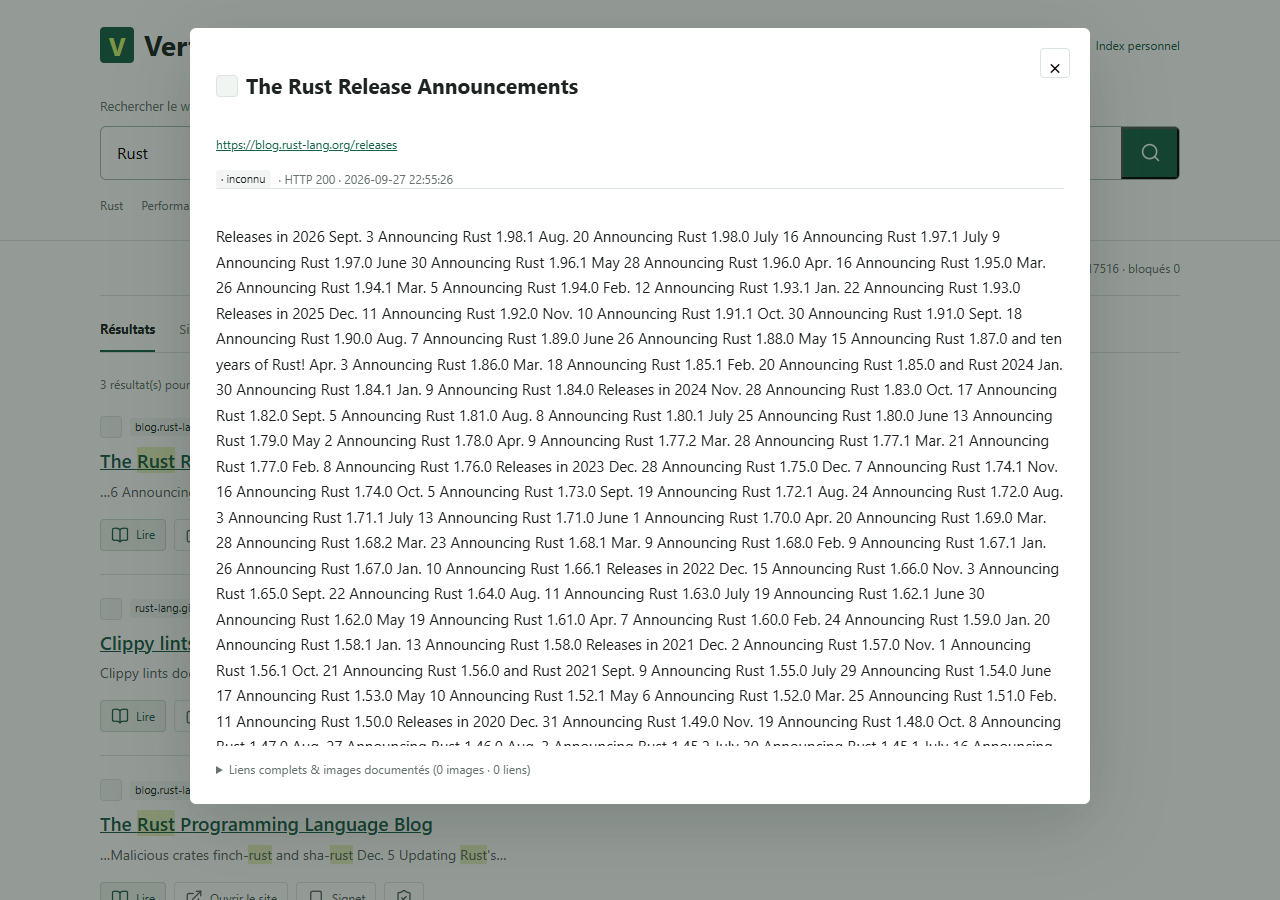
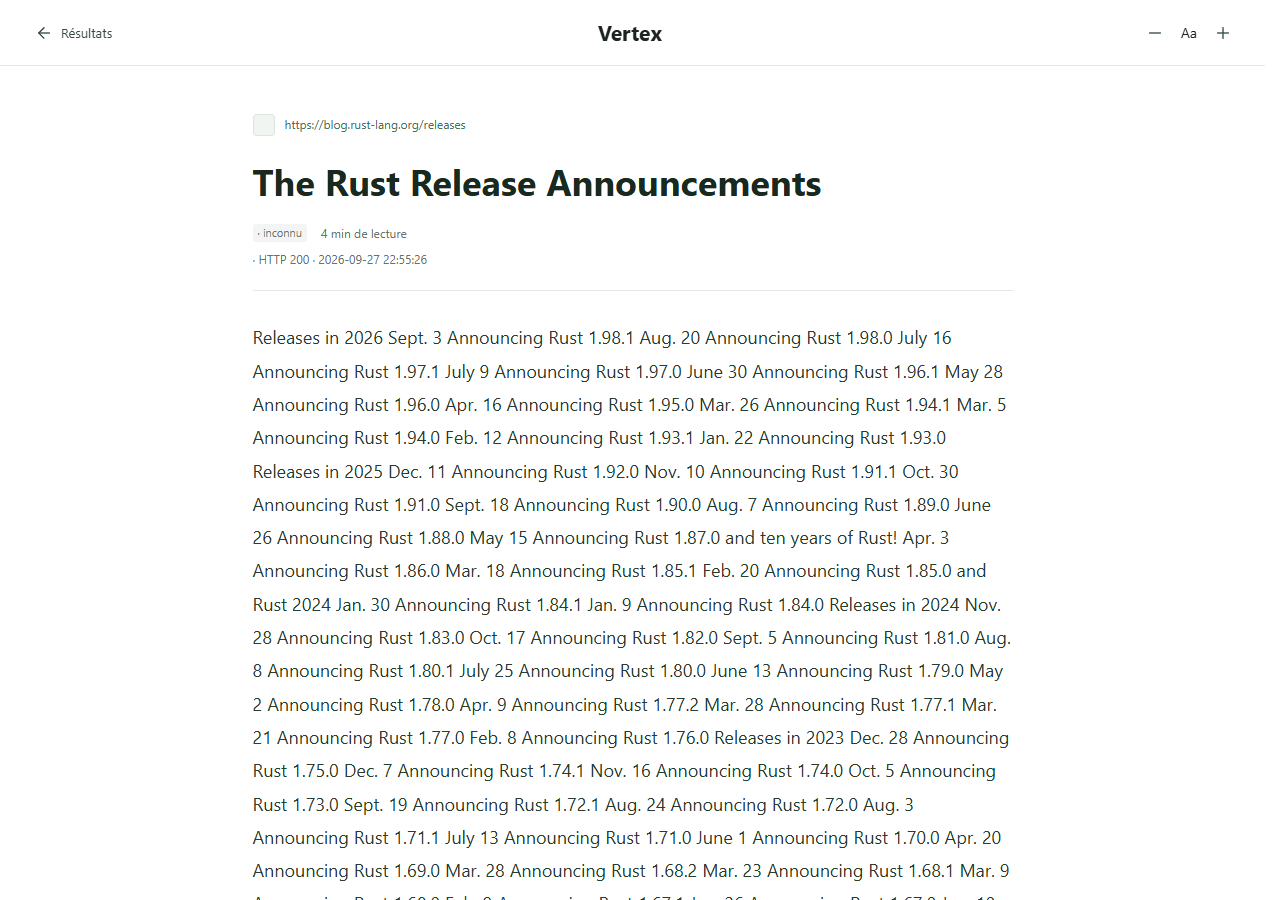
Corrige le controle continu et affine la lecture des anciennes pages

diff --git a/apps/landing/public/index.html b/apps/landing/public/index.html
@@ -30,7 +30,7 @@
     <div class="gallery-error" id="previewError" role="alert" hidden><span>L’aperçu n’a pas pu être chargé.</span><button class="icon-button" id="retryPreview" type="button" title="Réessayer le chargement" aria-label="Réessayer le chargement"><svg class="icon" aria-hidden="true"><use href="/icons.svg#refresh-cw"></use></svg></button></div>
     <span class="visually-hidden" id="galleryState" role="status" aria-live="polite"></span>
     <div class="product-window" id="product-view" role="tabpanel" aria-labelledby="tab-search"><div class="window-bar"><span class="window-brand">V <b>Vertex</b></span><span id="viewName">Recherche</span><span class="window-state">INTERFACE VERTEX</span></div><img class="preview" id="productPreview" src="/search-view.png" width="1280" height="900" alt="Capture réelle de Vertex : résultats publics Rust sélectionnés" loading="eager"></div>
-    <div class="product-caption"><p id="viewCaption">Des résultats publics sélectionnés dans l’index local de Vertex.</p><span>CAPTURES LOCALES · 19 OCTOBRE 2026</span></div>
+    <div class="product-caption"><p id="viewCaption">Des résultats publics sélectionnés dans l’index local de Vertex.</p><span>CAPTURES LOCALES · OCTOBRE 2026</span></div>
   </div>
 </section>
 <section class="flow-section" id="exploration" aria-labelledby="flow-title">
@@ -64,5 +64,5 @@
 <section class="download-section" id="download" aria-labelledby="download-title"><div class="wrap"><div class="section-top"><p class="eyebrow">04 / APPLICATION DE BUREAU</p><svg class="platform-icon" aria-hidden="true"><use href="/icons.svg#monitor"></use></svg></div><div class="download-layout"><div data-reveal><h2 id="download-title">Vertex<br>pour Windows<span>.</span></h2><p>Votre prochain point de départ.</p><span class="system">WINDOWS 10 / 11 · 64 BITS</span></div><div class="release"><div id="releaseState" class="release-state" role="status">Vérification de la version disponible…</div><a class="button download-button" id="downloadButton" hidden><svg class="icon" aria-hidden="true"><use href="/icons.svg#download"></use></svg><span id="downloadLabel">Télécharger</span></a><p class="checksum" id="checksum" hidden></p><p class="release-note">Seules les nouvelles versions validées seront proposées. Les anciens installateurs retirés ne sont pas distribués.</p><a href="/search" class="text-link">Accéder à la recherche<svg class="icon" aria-hidden="true"><use href="/icons.svg#arrow-up-right"></use></svg></a></div></div></div></section>
 </main>
 <footer><div class="wrap footer-top"><a class="footer-wordmark" href="#main">Vertex<span>.</span></a><p>Le web, retrouvé.</p></div><div class="wrap footer-bottom"><span>by ded_sec</span><div><a href="#confidentialite">Vos données</a><a href="/THIRD-PARTY-NOTICES.txt">Licences des composants</a><a href="#main" aria-label="Retour en haut" title="Retour en haut"><svg class="icon" aria-hidden="true"><use href="/icons.svg#arrow-up"></use></svg></a></div></div></footer>
-<dialog id="previewDialog" aria-label="Aperçu agrandi de Vertex"><button id="closePreview" class="icon-button" type="button" aria-label="Fermer l’aperçu" title="Fermer l’aperçu"><svg class="icon" aria-hidden="true"><use href="/icons.svg#x"></use></svg></button><img id="largePreview" src="/search-view.png" width="1280" height="900" alt="" loading="lazy"><p>Capture locale · 19 octobre 2026 · les compteurs ne sont pas en direct</p></dialog>
+<dialog id="previewDialog" aria-label="Aperçu agrandi de Vertex"><button id="closePreview" class="icon-button" type="button" aria-label="Fermer l’aperçu" title="Fermer l’aperçu"><svg class="icon" aria-hidden="true"><use href="/icons.svg#x"></use></svg></button><img id="largePreview" src="/search-view.png" width="1280" height="900" alt="" loading="lazy"><p>Capture locale · octobre 2026 · les compteurs ne sont pas en direct</p></dialog>
 </body></html>

diff --git a/apps/web/app.js b/apps/web/app.js
@@ -288,7 +288,12 @@ async function openPage(url) {
   if (html) {
     $('#vBody').innerHTML = html;
   } else {
-    $('#vBody').innerHTML = '<pre style="white-space:pre-wrap;font-family:inherit">' + esc(pg.content || '(aucun contenu enregistré)') + '</pre>';
+    $('#vBody').replaceChildren(...String(pg.content || '(aucun contenu enregistré)').split(/\r?\n\s*\r?\n/).map(text => {
+      const paragraph = document.createElement('p');
+      paragraph.textContent = text;
+      paragraph.style.whiteSpace = 'pre-line';
+      return paragraph;
+    }));
   }
 
   $$('#vBody img[data-src]').forEach(async (img, index) => {

diff --git a/apps/hub-rs/src/main.rs b/apps/hub-rs/src/main.rs
@@ -98,12 +98,19 @@ fn main() {
 
     for stream in listener.incoming() {
         let Ok(mut stream) = stream else { continue };
-        if active
-            .fetch_update(Ordering::AcqRel, Ordering::Acquire, |n| {
-                (n < 64).then_some(n + 1)
-            })
-            .is_err()
-        {
+        let accepted = loop {
+            let count = active.load(Ordering::Acquire);
+            if count >= 64 {
+                break false;
+            }
+            if active
+                .compare_exchange_weak(count, count + 1, Ordering::AcqRel, Ordering::Acquire)
+                .is_ok()
+            {
+                break true;
+            }
+        };
+        if !accepted {
             let _ = stream.set_write_timeout(Some(std::time::Duration::from_secs(1)));
             write_response(&mut stream, &Response::json_error(503, "serveur occupé"));
             continue;

diff --git a/AUDIT-2026-10-20.md b/AUDIT-2026-10-20.md
@@ -10,6 +10,8 @@ by ded_sec
   navigateur, focus restaure, erreurs et reponses obsoletes gerees.
 - Commandes locales du superviseur limitees a Start/Stop et 1 a 64 workers.
   Refus en mode public, controle Host/Origin et aucun chemin fourni par le client.
+- Un demarrage volontaire recalcule les workers selon la RAM disponible,
+  sans conserver indefiniment une ancienne reduction provoquee par la pression.
 - Raccourci de bureau vers un lanceur qui verifie le proprietaire du port.
 - SQLite embarque mis a jour via rusqlite 0.40.2, dans les deux verrous Cargo.
 - Sauvegarde coherente en WAL, reserve disque controlee sur la destination,
@@ -21,7 +23,7 @@ by ded_sec
 
 ## Resultats locaux
 
-90 tests Rust du workspace, 72 tests navigateur sur trois formats, 12 tests
+90 tests Rust du workspace, 75 tests navigateur sur trois formats, 12 tests
 Node et les deux suites HTTP reussis. Clippy strict du workspace et du desktop
 Windows reussi. Les tests utilisent des bases temporaires.
 
